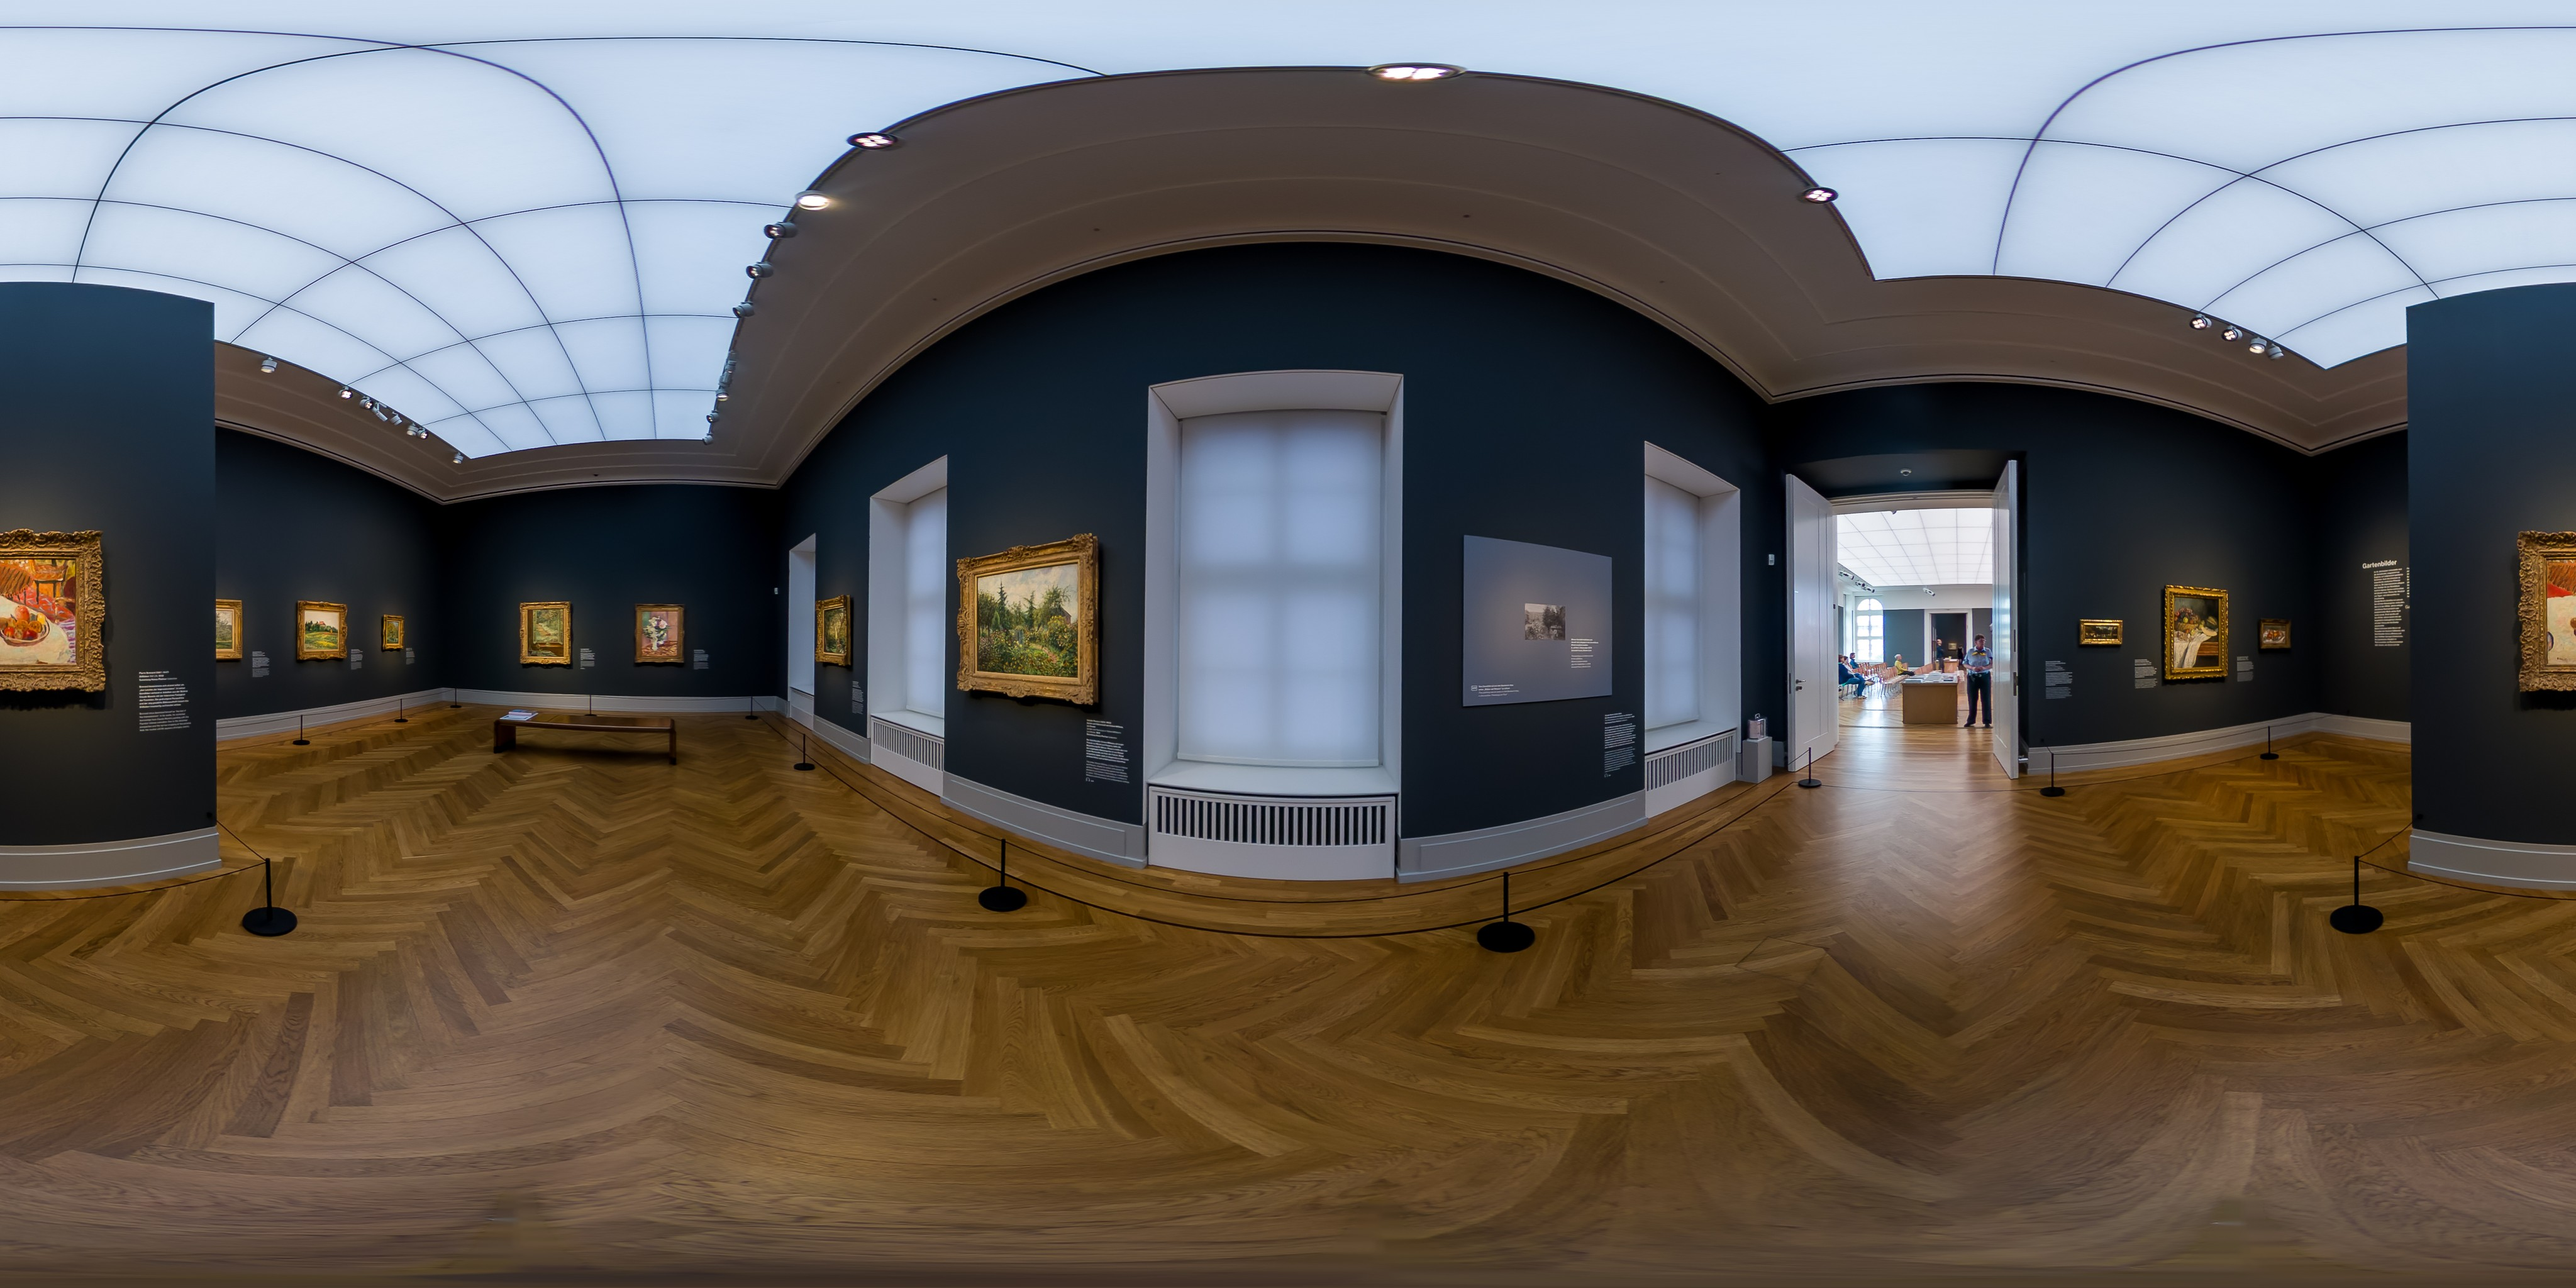
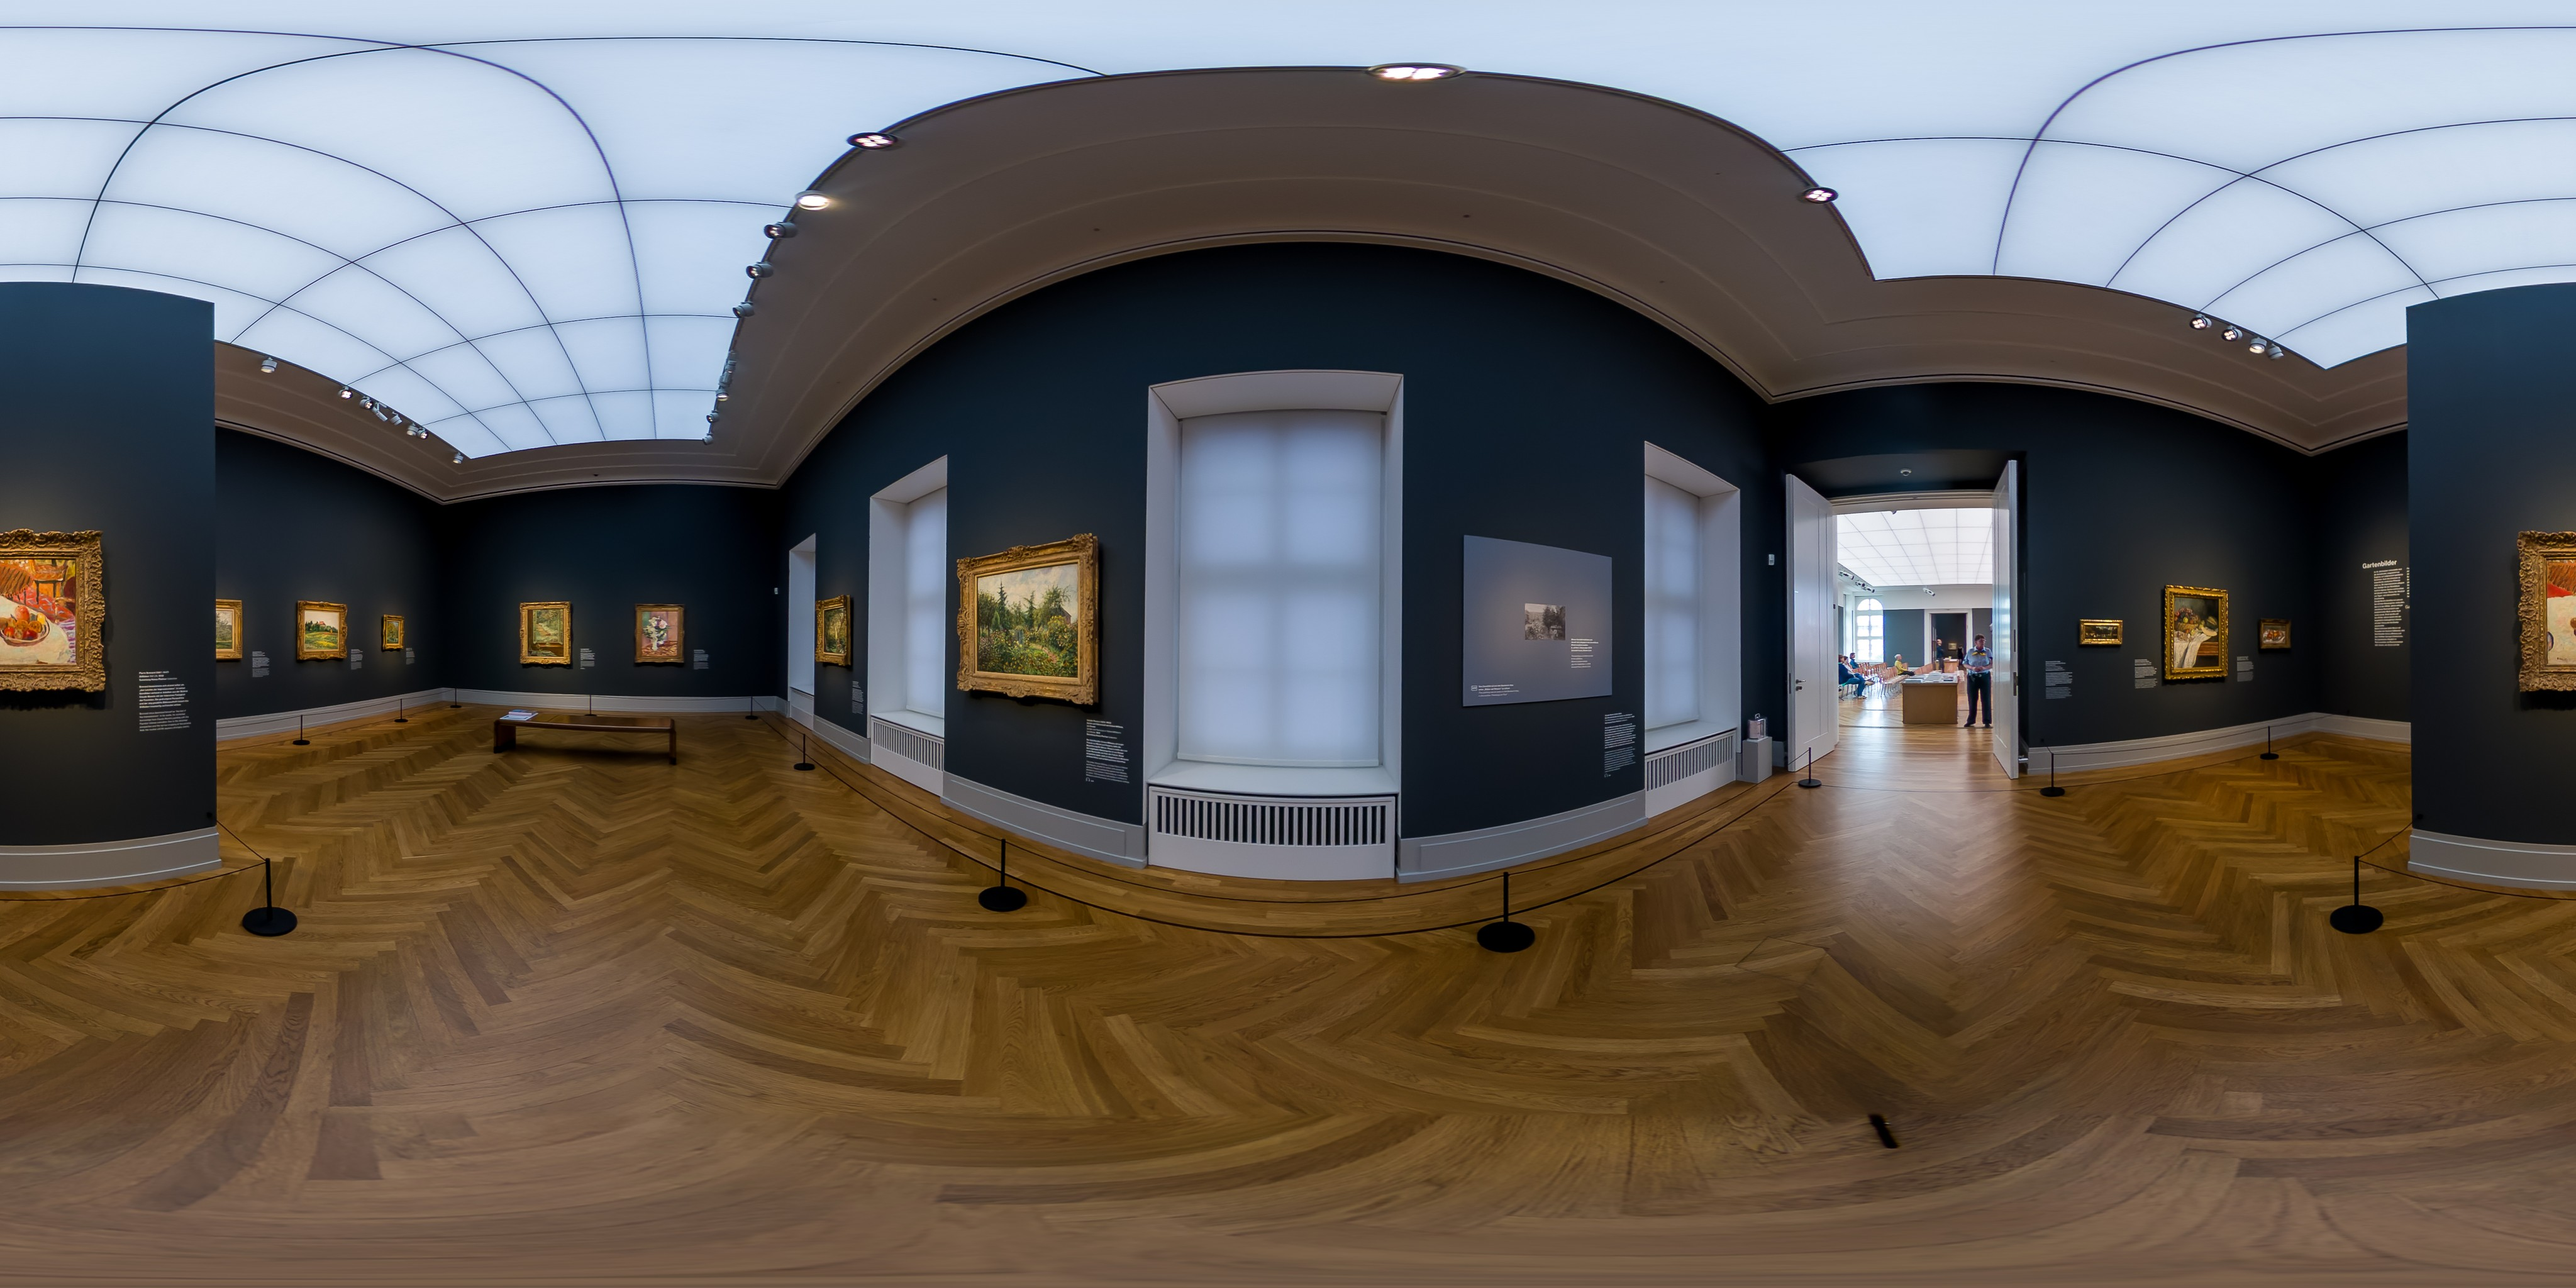
Barberini-Nadir sauber: Boden entzerren -> Parkett per Template-Match klonen -> Poisson-Blending (wie Photoshop/GIMP Heal) statt Weichzeichner

Changed region(s): [[0.0, 0.875, 1.0, 1.0], [0.4375, 0.875, 0.5, 0.9062], [0.3125, 0.875, 0.375, 0.9062]]

diff --git a/platform/dev/seed_barberini.py b/platform/dev/seed_barberini.py
@@ -87,35 +87,48 @@ def _sample(arr, sx, sy):
             + arr[y1, x0] * (1 - wx) * wy + arr[y1, x1] * wx * wy)
 
 
-def fill_nadir(im, alpha_deg=42, R=1500):
-    """Stativ/Fotograf am Nadir wegretuschieren wie GIMP "Heal Selection":
-    in die Draufsicht (senkrecht nach unten) projizieren, das Stativ per
-    adaptivem Schwellwert (deutlich dunkler als der Boden) maskieren, mit
-    cv2.inpaint heilen und nur den Maskenbereich ins Equirect zurueckrechnen."""
-    a = np.asarray(im.convert("RGB")).astype(np.float32); H, W, _ = a.shape
-    alpha = np.radians(alpha_deg); c = (R - 1) / 2
-    ys, xs = np.mgrid[0:R, 0:R].astype(np.float32); dx = (xs - c) / c; dy = (ys - c) / c
-    rr = np.sqrt(dx * dx + dy * dy); lat = np.clip(rr, 0, 1) * alpha - np.pi / 2
-    phi = np.arctan2(dy, dx)
+def _flat_floor(a, R, alpha):
+    """Boden in eine flache Draufsicht (orthographisch) entzerren -- dort ist das
+    Parkett ein exakt periodisches Muster, ideal zum Klonen."""
+    H, W, _ = a.shape; D = np.tan(alpha); c = (R - 1) / 2
+    ys, xs = np.mgrid[0:R, 0:R].astype(np.float32); X = (xs - c) / c * D; Y = (ys - c) / c * D
+    d = np.sqrt(X * X + Y * Y); theta = np.arctan(d); phi = np.arctan2(Y, X); lat = theta - np.pi / 2
     ex = ((phi / (2 * np.pi)) + 0.5) * (W - 1); ey = (0.5 - lat / np.pi) * (H - 1)
-    down = _sample(a, ex, ey); luma = down.mean(2)
-    floor_med = np.median(luma[(rr > 0.5) & (rr < 0.92)]); thr = floor_med * 0.60
-    mask = ((luma < thr) & (rr < 0.48)).astype(np.uint8)
-    mask = cv2.morphologyEx(mask, cv2.MORPH_CLOSE, np.ones((9, 9), np.uint8))
-    n, lab, stats, cent = cv2.connectedComponentsWithStats(mask, 8); keep = np.zeros_like(mask)
-    for k in range(1, n):
-        if stats[k, 4] >= 30 and ((cent[k][0] - c) ** 2 + (cent[k][1] - c) ** 2) ** 0.5 < 0.5 * c:
-            keep[lab == k] = 1
-    mask = cv2.dilate(keep * 255, np.ones((7, 7), np.uint8), 1)
-    healed = cv2.inpaint(np.clip(down, 0, 255).astype(np.uint8), mask, 4,
-                         cv2.INPAINT_TELEA).astype(np.float32)
+    return _sample(a, ex, ey), (theta <= alpha), d, D, c
+
+
+def fill_nadir(im, alpha_deg=55, R=1600, dhole=0.46):
+    """Stativ am Nadir wie GIMP/Photoshop entfernen: Boden flach entzerren ->
+    die am besten passende Parkett-Stelle per Template-Matching finden und ins
+    Loch KLONEN (echte Textur statt Weichzeichner) -> mit Poisson-Blending
+    (seamlessClone) an Licht/Farbe angleichen -> zurueck ins Panorama."""
+    a = np.asarray(im.convert("RGB")).astype(np.float32); H, W, _ = a.shape
+    alpha = np.radians(alpha_deg)
+    F, valid, d, D, c = _flat_floor(a, R, alpha)
+    hole = ((d < dhole) & valid).astype(np.uint8)
+    yy, xx = np.where(hole > 0); y0, y1 = yy.min(), yy.max(); x0, x1 = xx.min(), xx.max(); m = 45
+    bx0, by0 = max(0, x0 - m), max(0, y0 - m); bx1, by1 = min(R, x1 + m), min(R, y1 + m)
+    L = cv2.cvtColor(np.clip(F, 0, 255).astype(np.uint8), cv2.COLOR_RGB2GRAY).astype(np.float32)
+    templ = L[by0:by1, bx0:bx1]
+    tmask = ((valid) & (hole == 0))[by0:by1, bx0:bx1].astype(np.uint8) * 255
+    res = cv2.matchTemplate(L, templ, cv2.TM_CCORR_NORMED, mask=tmask); res[~np.isfinite(res)] = 0
+    cv2.circle(res, (bx0, by0), int(dhole * c * 0.9), 0, -1)
+    _, _, _, maxloc = cv2.minMaxLoc(res); dxp = maxloc[0] - bx0; dyp = maxloc[1] - by0
+    Mt = np.float32([[1, 0, -dxp], [0, 1, -dyp]])
+    src = cv2.warpAffine(np.clip(F, 0, 255).astype(np.uint8), Mt, (R, R),
+                         flags=cv2.INTER_LINEAR, borderMode=cv2.BORDER_REFLECT)
+    dst = np.clip(F, 0, 255).astype(np.uint8)
+    hmask = (cv2.erode(hole, np.ones((3, 3), np.uint8), 1) * 255).astype(np.uint8)
+    ctr = (int((x0 + x1) / 2), int((y0 + y1) / 2))
+    blended = cv2.seamlessClone(src, dst, hmask, ctr, cv2.NORMAL_CLONE).astype(np.float32)
+    soft = cv2.GaussianBlur(hole.astype(np.float32), (31, 31), 0)[..., None]
+    Ff = blended * soft + F * (1 - soft)
     yb = int((0.5 - (-np.pi / 2 + alpha) / np.pi) * (H - 1))
-    yy, xx = np.mgrid[yb:H, 0:W].astype(np.float32)
-    lat2 = (0.5 - yy / (H - 1)) * np.pi; lon2 = (xx / (W - 1) - 0.5) * 2 * np.pi
-    rr2 = np.clip((lat2 + np.pi / 2) / alpha, 0, 1)
-    u = c + rr2 * c * np.cos(lon2); v = c + rr2 * c * np.sin(lon2)
-    hv = _sample(healed, u, v)
-    mv = np.clip(_sample(mask[..., None].astype(np.float32), u, v)[..., 0] / 255.0, 0, 1)[..., None]
+    Yy, Xx = np.mgrid[yb:H, 0:W].astype(np.float32)
+    lat2 = (0.5 - Yy / (H - 1)) * np.pi; lon2 = (Xx / (W - 1) - 0.5) * 2 * np.pi
+    theta2 = np.clip(lat2 + np.pi / 2, 0, alpha); d2 = np.tan(theta2)
+    gx = c + (d2 / D) * c * np.cos(lon2); gy = c + (d2 / D) * c * np.sin(lon2)
+    hv = _sample(Ff, gx, gy); mv = np.clip(_sample(soft, gx, gy), 0, 1)
     a[yb:H] = hv * mv + a[yb:H] * (1 - mv)
     return Image.fromarray(np.clip(a, 0, 255).astype(np.uint8))
 
